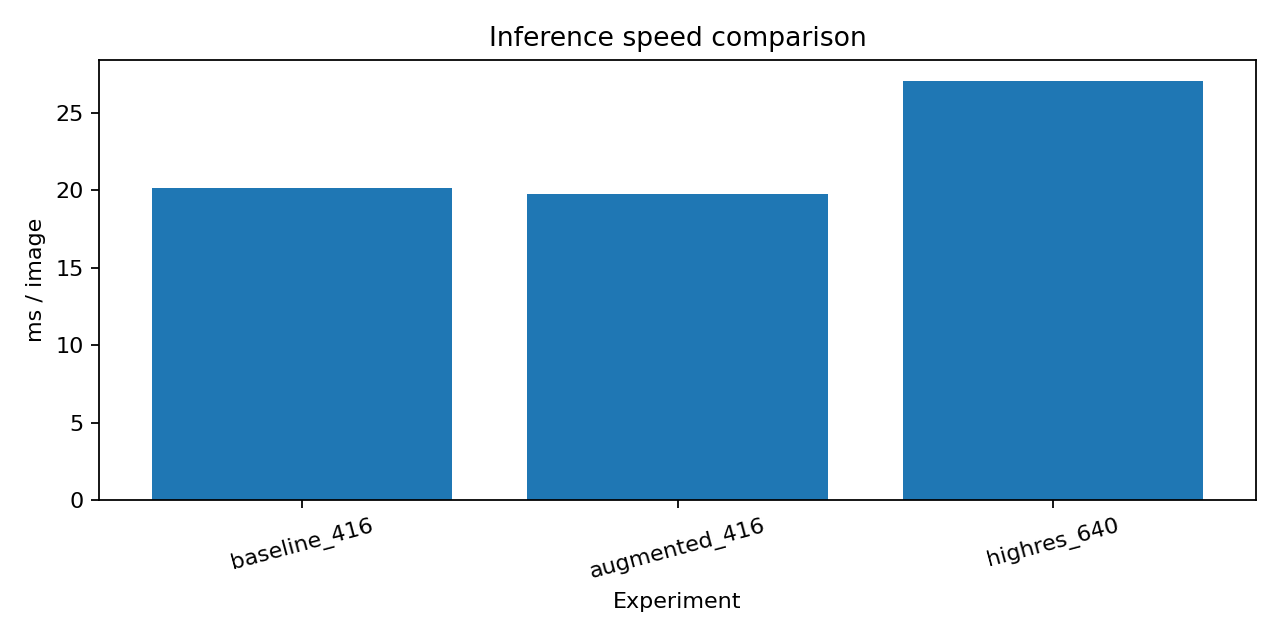
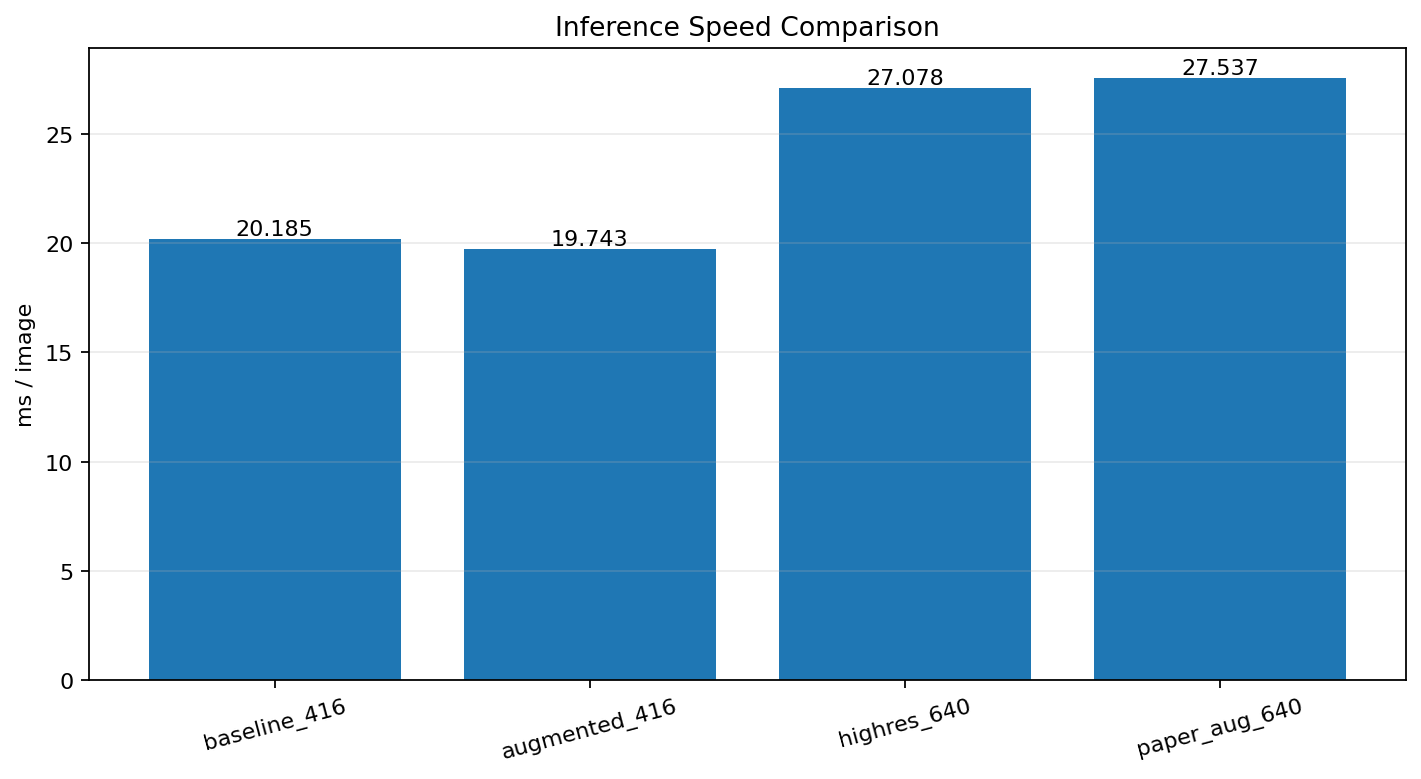
Add paper-inspired augmentation experiment

diff --git a/README.md b/README.md
@@ -1,16 +1,24 @@
 # Welding Defect Segmentation — Research Project
 
-Research-oriented computer vision project for **welding defect segmentation on radiographic images** using **YOLOv8n-seg**.
+Research-oriented computer vision project for **welding defect segmentation in radiographic images** using **YOLOv8n-seg**.
 
-The goal is not only to train a segmentation model, but to run controlled experiments and analyze how **data augmentation** and **input resolution** affect model quality and inference speed.
+The project focuses on controlled experimentation rather than training a single model: I compare augmentation strategies and image resolutions, analyze quality/speed trade-offs, investigate class imbalance, and run a **paper-inspired augmentation experiment** based on ideas from research on automated welding-defect detection.
 
-## Research Question
+---
 
-> How do stronger data augmentation and increased input resolution affect YOLOv8n-seg performance for welding-defect segmentation?
+## Research Questions
+
+The project investigates three main questions:
+
+1. Does stronger data augmentation improve welding-defect segmentation?
+2. Does increasing input resolution from 416 to 640 improve segmentation quality?
+3. Can a paper-inspired augmentation strategy improve the strongest experimental configuration?
+
+---
 
 ## Dataset
 
-Radiographic welding defect dataset:
+Dataset:
 
 `viacheslavasadchiy/radiographs-welding-defect-detection`
 
@@ -20,43 +28,55 @@ Full dataset:
 - 5,360 validation images
 - 13 defect classes
 
-For Colab-friendly controlled experiments, I used a fixed reproducible subset:
+For reproducible and Colab-friendly experiments, I created a fixed research subset:
 
 - 796 training images
 - 198 validation images
 - random seed: `42`
 
-The same subset was used for every experiment.
+The same subset was used across all experiments.
 
-## Experimental Setup
+---
 
-Model: **YOLOv8n-seg**
+## Model
 
 All experiments use:
 
-- pretrained YOLOv8n-seg weights
+- **YOLOv8n-seg**
+- pretrained weights
 - AdamW optimizer
 - learning rate `1e-3`
 - 10 epochs
 - fixed random seed `42`
 - identical train/validation split
-- offline evaluation
+- NVIDIA Tesla T4
+- segmentation metrics
 
-Three configurations were compared:
+The main evaluation metric is **mask mAP50-95**.
 
-| Experiment | Resolution | Description |
+---
+
+## Experiments
+
+Four controlled configurations were evaluated.
+
+| Experiment | Resolution | Main Change |
 |---|---:|---|
-| baseline_416 | 416 | Baseline augmentation |
-| augmented_416 | 416 | Stronger augmentation |
-| highres_640 | 640 | Higher input resolution |
+| `baseline_416` | 416 | Baseline configuration |
+| `augmented_416` | 416 | Stronger augmentation |
+| `highres_640` | 640 | Increased image resolution |
+| `paper_aug_640` | 640 | Paper-inspired stronger augmentation |
+
+---
 
 ## Results
 
 | Experiment | Precision | Recall | mAP50 | mAP50-95 | Inference |
 |---|---:|---:|---:|---:|---:|
-| baseline_416 | 0.3815 | 0.2857 | 0.2586 | 0.2334 | 20.18 ms |
-| augmented_416 | 0.2469 | 0.2773 | 0.2739 | 0.2479 | 19.74 ms |
-| **highres_640** | **0.4306** | **0.3112** | **0.2963** | **0.2655** | 27.08 ms |
+| `baseline_416` | 0.3815 | 0.2857 | 0.2586 | 0.2334 | 20.18 ms |
+| `augmented_416` | 0.2469 | 0.2773 | 0.2739 | 0.2479 | 19.74 ms |
+| `highres_640` | 0.4306 | **0.3112** | **0.2963** | 0.2655 | 27.08 ms |
+| **`paper_aug_640`** | **0.6720** | 0.2792 | 0.2862 | **0.2721** | 27.54 ms |
 
 ### mAP50-95
 
@@ -78,81 +98,203 @@ Three configurations were compared:
 
 ![Inference speed comparison](results/inference_speed_comparison.png)
 
-## Key Findings
+---
 
-The best configuration was **highres_640**.
+## Experiment 1 — Baseline
 
-It achieved:
+The first experiment established the reference performance at 416px.
 
-- **mAP50-95: 0.2655**
-- **mAP50: 0.2963**
-- **Precision: 0.4306**
-- **Recall: 0.3112**
+**Result:**
 
-Increasing input resolution from 416 to 640 improved mAP50-95 from:
+`mAP50-95 = 0.2334`
+
+This value was used as the main baseline for subsequent experiments.
+
+---
+
+## Experiment 2 — Stronger Augmentation
+
+The second experiment tested whether stronger augmentation could improve generalization while keeping the same 416px resolution.
+
+mAP50-95 increased:
+
+`0.2334 → 0.2479`
+
+This corresponds to approximately **+6.2% relative improvement** over the baseline.
+
+The result suggested that augmentation could be beneficial, but also showed that different metrics did not improve uniformly.
+
+---
+
+## Experiment 3 — Higher Resolution
+
+The third experiment increased input resolution:
+
+`416 → 640`
+
+mAP50-95 increased:
 
 `0.2334 → 0.2655`
 
-This corresponds to approximately **13.8% relative improvement** over the baseline.
+This is approximately **+13.8% relative improvement** over the baseline.
 
-However, inference became slower:
+However, inference time increased:
 
 `20.18 ms/image → 27.08 ms/image`
 
 This demonstrates a clear **quality vs. inference-cost trade-off**.
 
-Stronger augmentation also improved mAP50-95:
+At this stage, `highres_640` became the strongest configuration.
 
-`0.2334 → 0.2479`
+---
 
-or approximately **6.2% relative improvement** over baseline.
+## Paper-Inspired Experiment
 
-## Class Distribution
+After the first three experiments, I explored research on deep-learning-based welding-defect detection.
+
+A recurring idea in welding-defect research is the use of stronger data augmentation to improve generalization under limited and imbalanced defect data.
+
+Instead of claiming a full paper reproduction, I adapted this idea to the existing segmentation pipeline and designed an additional controlled experiment.
+
+### Hypothesis
+
+> A stronger paper-inspired augmentation strategy applied at 640px will improve segmentation quality over the existing `highres_640` configuration.
+
+### Augmentation Strategy
+
+The `paper_aug_640` experiment uses:
+
+- Mosaic
+- MixUp
+- geometric transformations
+- translation
+- scaling
+- horizontal flipping
+- stronger intensity/color augmentation
+
+The model architecture, dataset split, seed, optimizer, learning rate and number of epochs were kept consistent.
+
+### Result
+
+`highres_640`:
+
+`mAP50-95 = 0.265546`
+
+`paper_aug_640`:
+
+`mAP50-95 = 0.272064`
+
+Relative improvement:
+
+**+2.45%**
+
+Therefore, the hypothesis was supported for the main segmentation metric.
+
+However, the improvement was **not uniform across all metrics**.
+
+Precision increased substantially:
+
+`0.4306 → 0.6720`
+
+while recall decreased:
+
+`0.3112 → 0.2792`
+
+and mAP50 decreased slightly:
+
+`0.2963 → 0.2862`
+
+This indicates a trade-off rather than universal improvement.
+
+---
+
+## Overall Improvement
+
+The best configuration improved mask mAP50-95 from:
+
+`0.233440 → 0.272064`
+
+Compared with the original baseline, this is approximately:
+
+**+16.5% relative improvement**
+
+The experimental progression was:
+
+`baseline_416 → augmented_416 → highres_640 → paper_aug_640`
+
+---
+
+## Class Imbalance Analysis
 
 ![Class distribution](results/class_distribution.png)
 
-The reduced validation subset is strongly class-imbalanced.
+The reduced research subset is strongly class-imbalanced.
 
-This is important because several rare classes contain only a small number of examples, making their metrics unstable.
+This became one of the main limitations identified during experimentation.
+
+For the final `paper_aug_640` model, some defect classes performed very well:
+
+- `defect_6`: mask mAP50 ≈ **0.912**
+- `defect_7`: mask mAP50 ≈ **0.972**
+
+At the same time, several rare classes had near-zero performance.
+
+This suggests that aggregate metrics alone do not fully describe model behavior.
+
+---
 
 ## Failure Analysis
 
-Per-class evaluation showed a large difference between common and rare defect classes.
+The experiments revealed several important failure modes:
 
-For the high-resolution model:
+- rare defect classes are poorly represented;
+- performance differs substantially between classes;
+- increasing resolution improves quality but increases inference cost;
+- aggressive augmentation can improve mAP50-95 while reducing recall;
+- metrics for classes with only a few validation examples are unstable.
 
-- `defect_6` mask mAP50 ≈ **0.948**
-- `defect_7` mask mAP50 ≈ **0.951**
+Therefore, class-aware evaluation is important for future experiments.
 
-At the same time, several rare classes have near-zero performance.
-
-This suggests that **class imbalance and insufficient rare-class coverage are major limitations** of the current experimental setup.
+---
 
 ## Example Predictions
 
-Qualitative predictions from the best experiment are available in:
+Qualitative predictions are available here:
 
 [`results/example_predictions`](results/example_predictions)
 
-These examples are used to visually inspect segmentation quality and failure cases.
+These examples can be used to visually inspect segmentation quality and model failure cases.
+
+---
 
 ## Limitations
 
-- Reduced dataset subset was used for Colab-friendly experiments.
-- Strong class imbalance exists in the validation subset.
-- Only one random seed was evaluated.
-- Training was limited to 10 epochs.
-- Only one model family was tested.
-- Rare-class metrics are not statistically robust.
+The current study has several limitations:
+
+- a reduced subset of the full dataset was used;
+- the subset is strongly class-imbalanced;
+- experiments were performed with one random seed;
+- training was limited to 10 epochs;
+- only one model family was evaluated;
+- rare-class metrics have high uncertainty;
+- the paper-inspired experiment is an adaptation of research ideas, not a full reproduction of a published architecture.
+
+---
 
 ## Next Research Steps
 
-1. Implement class-aware sampling.
-2. Run experiments with multiple random seeds and report mean/std.
-3. Perform detailed per-class AP analysis.
-4. Analyze false positives and false negatives.
-5. Compare another segmentation architecture.
-6. Reproduce and adapt a method from a relevant scientific paper.
+Possible extensions:
+
+1. Implement class-aware or stratified subset sampling.
+2. Run experiments across multiple random seeds.
+3. Report mean and standard deviation across runs.
+4. Perform detailed per-class AP analysis.
+5. Analyze false-positive and false-negative examples.
+6. Compare another segmentation architecture.
+7. Reproduce and adapt a specific architecture-level method from a scientific paper.
+8. Evaluate the best configuration on a larger or full dataset.
+
+---
 
 ## Repository Structure
 
@@ -166,6 +308,7 @@ weld-defect-ds-research/
 │   └── research_summary.txt
 └── results/
     ├── experiment_results.csv
+    ├── paper_experiment_summary.txt
     ├── class_distribution.csv
     ├── class_distribution.png
     ├── mAP50-95_comparison.png
@@ -176,30 +319,36 @@ weld-defect-ds-research/
     └── example_predictions/
 ```
 
+---
+
 ## Reproduction
 
-The experiments were run in **Google Colab with an NVIDIA Tesla T4 GPU**.
+Experiments were run in **Google Colab with an NVIDIA Tesla T4 GPU**.
 
 Install dependencies:
 
 ```bash
-pip install ultralytics kagglehub opencv-python pyyaml pandas matplotlib tabulate
+pip install -r requirements.txt
 ```
 
-Run:
+Run the main experiment pipeline:
 
 ```bash
 python src/Weld_Defect_DS_Research_FINAL.py
 ```
 
-The script downloads the dataset, prepares the experimental subset, trains all three configurations, evaluates them and generates the result artifacts.
+Experiment artifacts and metrics are stored in the `results/` directory.
+
+---
 
 ## Tech Stack
 
-**Python · PyTorch · YOLOv8 · OpenCV · Pandas · NumPy · Matplotlib · CUDA · Google Colab**
+**Python · PyTorch · YOLOv8 · Ultralytics · OpenCV · Pandas · NumPy · Matplotlib · CUDA · Google Colab · Git**
+
+---
 
 ## Author
 
 **Serafima Saltanova**
 
-GitHub: @S1materp
+GitHub: `@S1materp`
